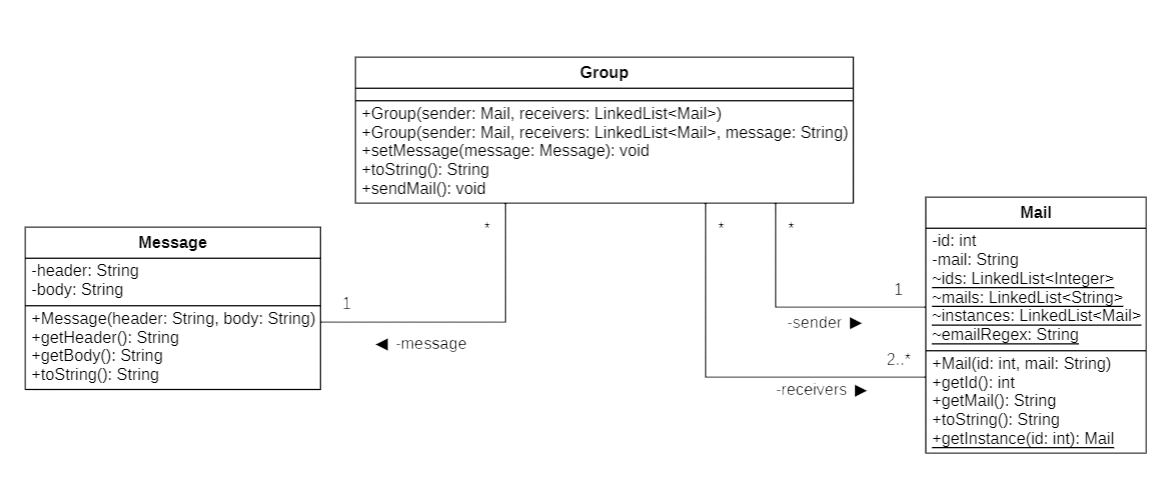
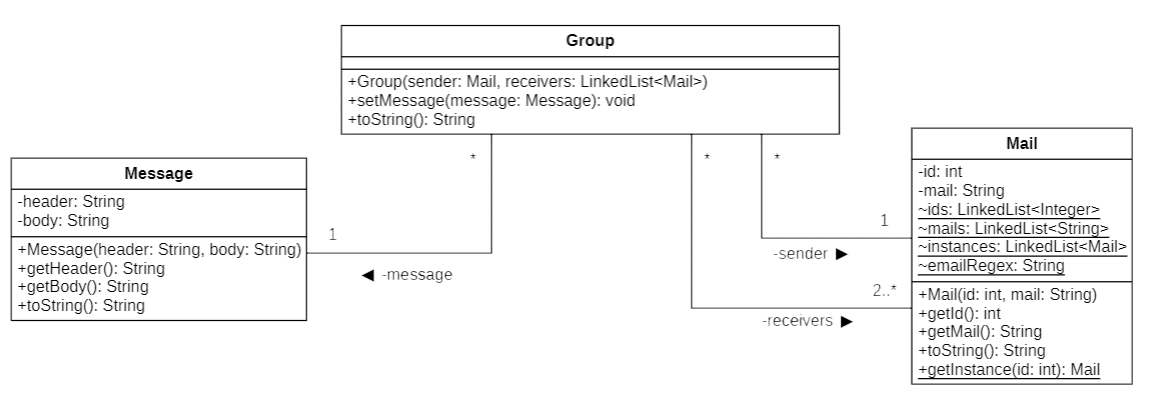
Doc update

Changed region(s): [[0.0, 0.0603, 0.9974, 0.9648], [0.7169, 0.392, 0.7481, 0.4221]]

diff --git a/README.md b/README.md
@@ -17,7 +17,7 @@ Mail contains a string for it's mail as well as an id to easily link mails to gr
 
 Message contains two strings, one for the header and one for the body.
 
-Group contains a sender Mail, a list of receivers Mails and can contain a Message. Group also has a function to setup the message, also allowing to change the message. And finnaly there's a function sendMail() that is used to send the forged mail.
+Group contains a sender Mail and a list of receivers Mails.
 
 Data is read from the .config files in \\Client\\CONFIG\\.
 
@@ -150,7 +150,7 @@ After every changes in the Dockerfile, you will need to rebuild the image. Follo
 And then, in a terminal, execute the following command to run the container:
 
 ```
-docker run -p NewWebInterfacePort:NewWebInterfacePort -t mockmockserver
+docker run -p NewSmtpPrt:NewSmtpPort -p NewWebInterfacePort:NewWebInterfacePort -t mockmockserver
 ```
 Change *NewWebInterfacePort* with the port number you want.
 
